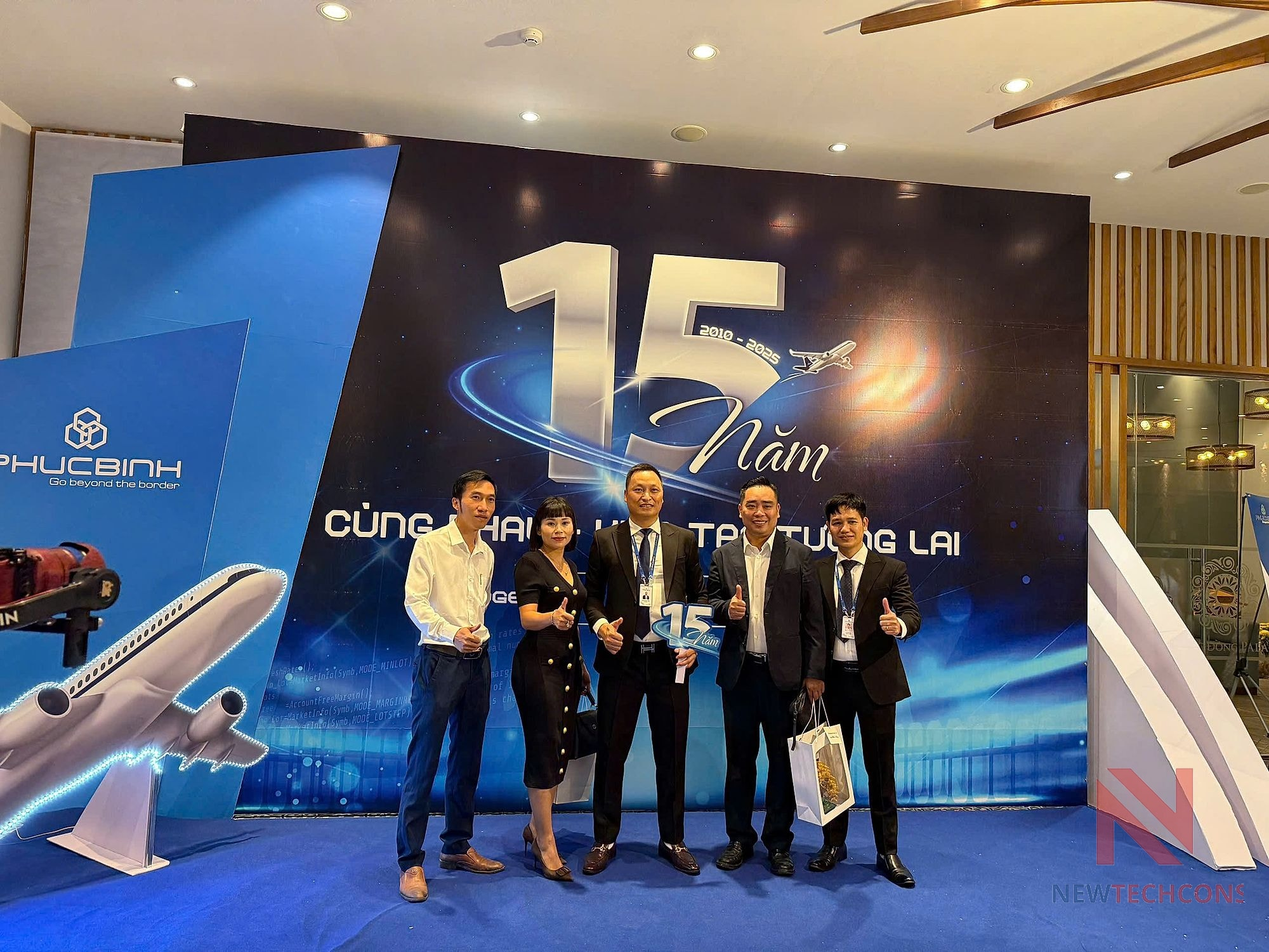
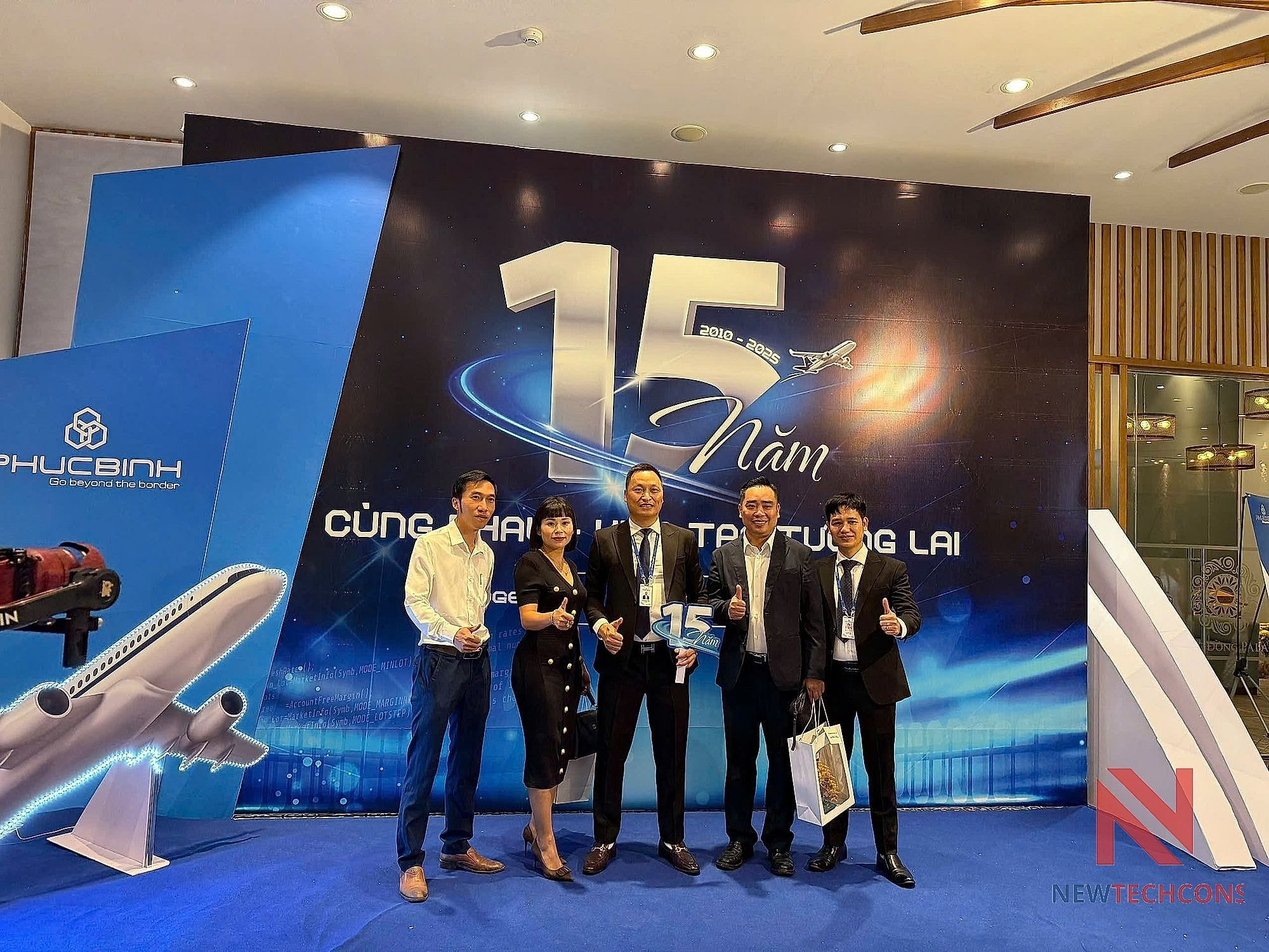
Bỏ mục "Newtechcons trong hệ sinh thái Phúc Bình Group", sửa markdown lỗi, gắn watermark toàn bộ ảnh bài Phúc Bình
- Bỏ heading mục hệ sinh thái theo yêu cầu, giữ nguyên đoạn văn bên dưới.
- Sửa markdown ảnh lẵng hoa bị lồng "![![...]]" (do sửa qua trang quản
  trị) thành cú pháp ảnh đúng.
- Làm nét + gắn watermark cho cả 5 ảnh trong bài (ảnh tải qua /quan-tri
  không tự động qua bước này).

diff --git a/src/content/tin-tuc/newtechcons-du-le-ky-niem-15-nam-phuc-binh-group.md b/src/content/tin-tuc/newtechcons-du-le-ky-niem-15-nam-phuc-binh-group.md
@@ -12,7 +12,8 @@ noiBat: true
 Ngày 11/11/2025, đại diện Newtechcons đã tới dự và gửi lời chúc mừng tới **Phúc Bình Group**
 nhân dịp Lễ kỷ niệm **15 năm thành lập** (2010 – 2025), với chủ đề "**Cùng nhau kiến tạo tương
 lai**".
-![![Lẵng hoa chúc mừng của Newtechcons gửi tới Phúc Bình Group nhân kỷ niệm 15 năm thành lập]](/images/uploads/1789803893615-1000000402.jpg)
+![Lẵng hoa chúc mừng của Newtechcons gửi tới Phúc Bình Group nhân kỷ niệm 15 năm thành lập](/images/uploads/1789803893615-1000000402.jpg)
+
 ## Gửi lời chúc mừng ý nghĩa
 
 Tại sự kiện, Newtechcons đã gửi lẵng hoa chúc mừng tập đoàn **Phúc Bình Group**, ghi nhận hành
@@ -24,7 +25,6 @@ Group, gửi lời chúc Phúc Bình Group tiếp tục phát triển bền vữ
 trong giai đoạn tiếp theo.
 
 ![Đại diện Newtechcons và Phúc Bình Group tại sảnh sự kiện](/images/uploads/1789804007440-1000000398.jpg)
-## Newtechcons trong hệ sinh thái Phúc Bình Group
 
 Newtechcons là đối tác chiến lược quan trọng trong hệ sinh thái doanh nghiệp Phúc Bình Group, phụ
 trách mảng **xử lý nước thải, xử lý môi trường cho nhà máy**.
